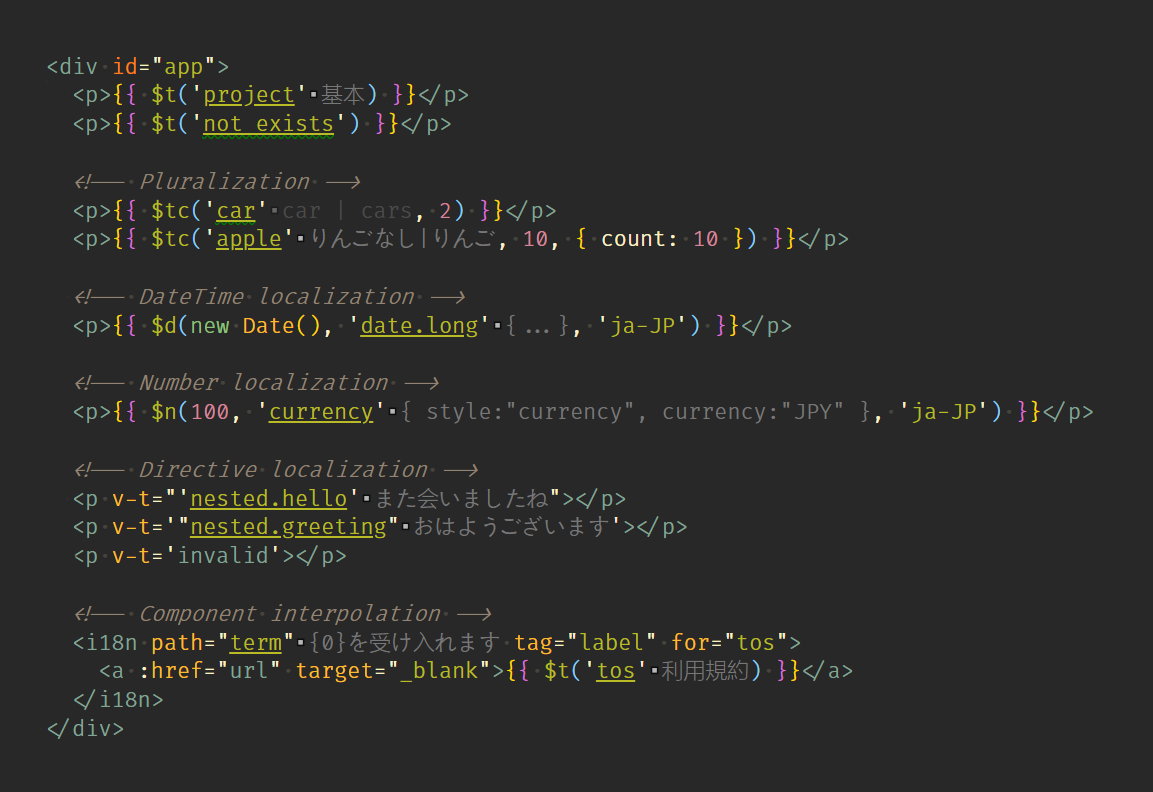
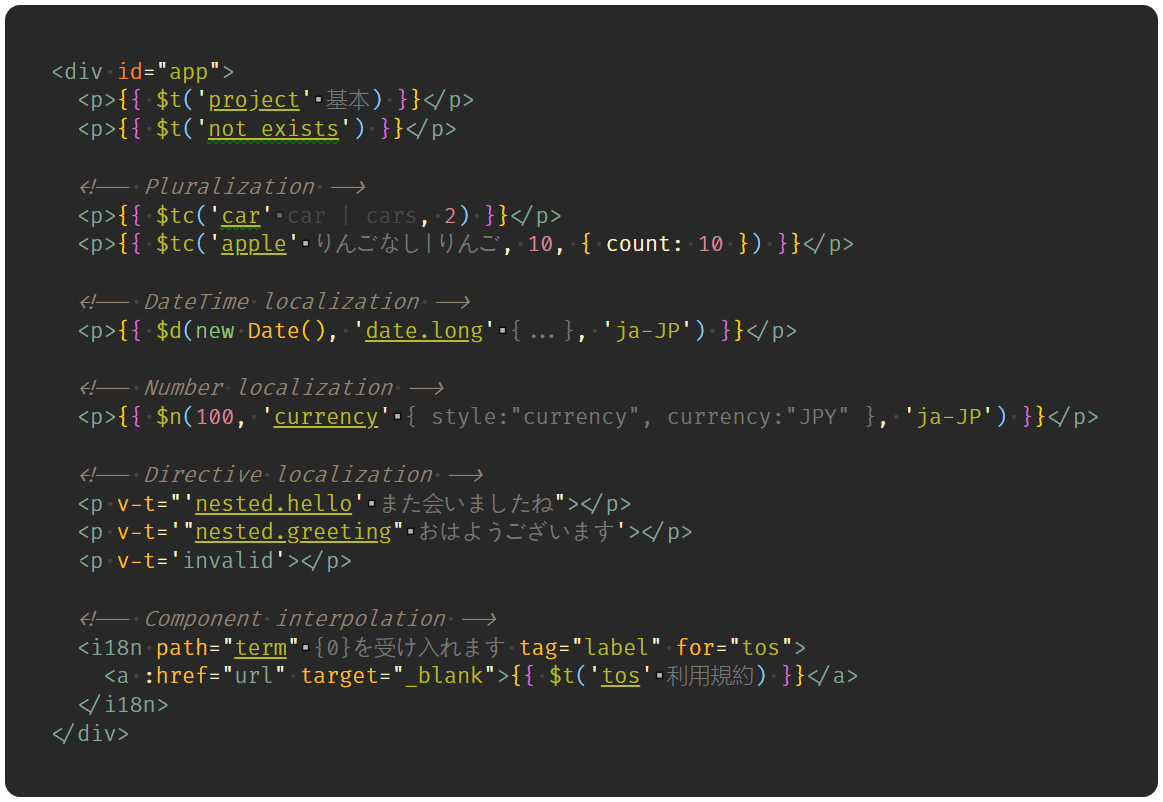
docs: rounded and compress screenshoots

diff --git a/README.md b/README.md
@@ -21,52 +21,52 @@
 <h3 align="center"> Inline annotation </h3>
 
 <p align="center">
-<img src='https://github.com/antfu/vue-i18n-ally/blob/master/screenshots/annotation.png?raw=true' style='box-shadow: 2px 4px 21px 0px rgba(0,0,0, 0.2); border-radius:5px' width='700px'/>
+<img src='https://github.com/antfu/vue-i18n-ally/blob/master/screenshots/annotation.png?raw=true' width='700px'/>
 </p>
 
 <h3 align="center"> Hover & Direct actions </h3>
 
 <p align="center">
-<img src='https://github.com/antfu/vue-i18n-ally/blob/master/screenshots/hover.png?raw=true' style='box-shadow: 2px 4px 21px 0px rgba(0,0,0, 0.2); border-radius:5px' width='600px'/>
+<img src='https://github.com/antfu/vue-i18n-ally/blob/master/screenshots/hover.png?raw=true' width='600px'/>
 </p>
 
 
 <h3 align="center"> Manage all translations in one place </h3>
 
 <p align="center">
-<img src='https://github.com/antfu/vue-i18n-ally/blob/master/screenshots/progress_report.png?raw=true' style='box-shadow: 2px 4px 21px 0px rgba(0,0,0, 0.2); border-radius:5px' width='600px'/>
+<img src='https://github.com/antfu/vue-i18n-ally/blob/master/screenshots/progress_report.png?raw=true' width='600px'/>
 </p>
 
 <p align="center">
-<img src='https://github.com/antfu/vue-i18n-ally/blob/master/screenshots/manage.png?raw=true' style='box-shadow: 2px 4px 21px 0px rgba(0,0,0, 0.2); border-radius:5px' width='600px'/>
+<img src='https://github.com/antfu/vue-i18n-ally/blob/master/screenshots/manage.png?raw=true' width='600px'/>
 </p>
 
 
 <h3 align="center"> Translations missing report </h3>
 
 <p align="center">
-<img src='https://github.com/antfu/vue-i18n-ally/blob/master/screenshots/problems.png?raw=true' style='box-shadow: 2px 4px 21px 0px rgba(0,0,0, 0.2); border-radius:5px' width='500px'/>
+<img src='https://github.com/antfu/vue-i18n-ally/blob/master/screenshots/problems.png?raw=true' width='500px'/>
 </p>
 
 
 <h3 align="center"> YAML and JSON are supported </h3>
 
 <p align="center">
-<img src='https://github.com/antfu/vue-i18n-ally/blob/master/screenshots/yaml_support.png?raw=true' style='box-shadow: 2px 4px 21px 0px rgba(0,0,0, 0.2); border-radius:5px' width='500px'/>
+<img src='https://github.com/antfu/vue-i18n-ally/blob/master/screenshots/yaml_support.png?raw=true' width='500px'/>
 </p>
 
 
 <h3 align="center"> Refactors & Auto translate </h3>
 
 <p align="center">
-<img src='https://github.com/antfu/vue-i18n-ally/blob/master/screenshots/refactor_translate.png?raw=true' style='box-shadow: 2px 4px 21px 0px rgba(0,0,0, 0.2); border-radius:5px' width='500px'/>
+<img src='https://github.com/antfu/vue-i18n-ally/blob/master/screenshots/refactor_translate.png?raw=true' width='500px'/>
 </p>
 
 
 <h3 align="center"> Extract translations from code </h3>
 
 <p align="center">
-<img src='https://github.com/antfu/vue-i18n-ally/blob/master/screenshots/extract.png?raw=true' style='box-shadow: 2px 4px 21px 0px rgba(0,0,0, 0.2); border-radius:5px' width='500px'/>
+<img src='https://github.com/antfu/vue-i18n-ally/blob/master/screenshots/extract.png?raw=true' width='500px'/>
 </p>
 
 <h3 align="center"> Overview </h3>
@@ -76,7 +76,7 @@
 - i18n for the extension itself, of course. **(English, 简体中文, 繁體中文)**
 
 <p align="center">
-<img src='https://github.com/antfu/vue-i18n-ally/blob/master/screenshots/overview.png?raw=true' style='box-shadow: 2px 4px 21px 0px rgba(0,0,0, 0.2); border-radius:5px' width='700px'/>
+<img src='https://github.com/antfu/vue-i18n-ally/blob/master/screenshots/overview.png?raw=true' width='700px'/>
 </p>
 
 ## ⚙ Installation
